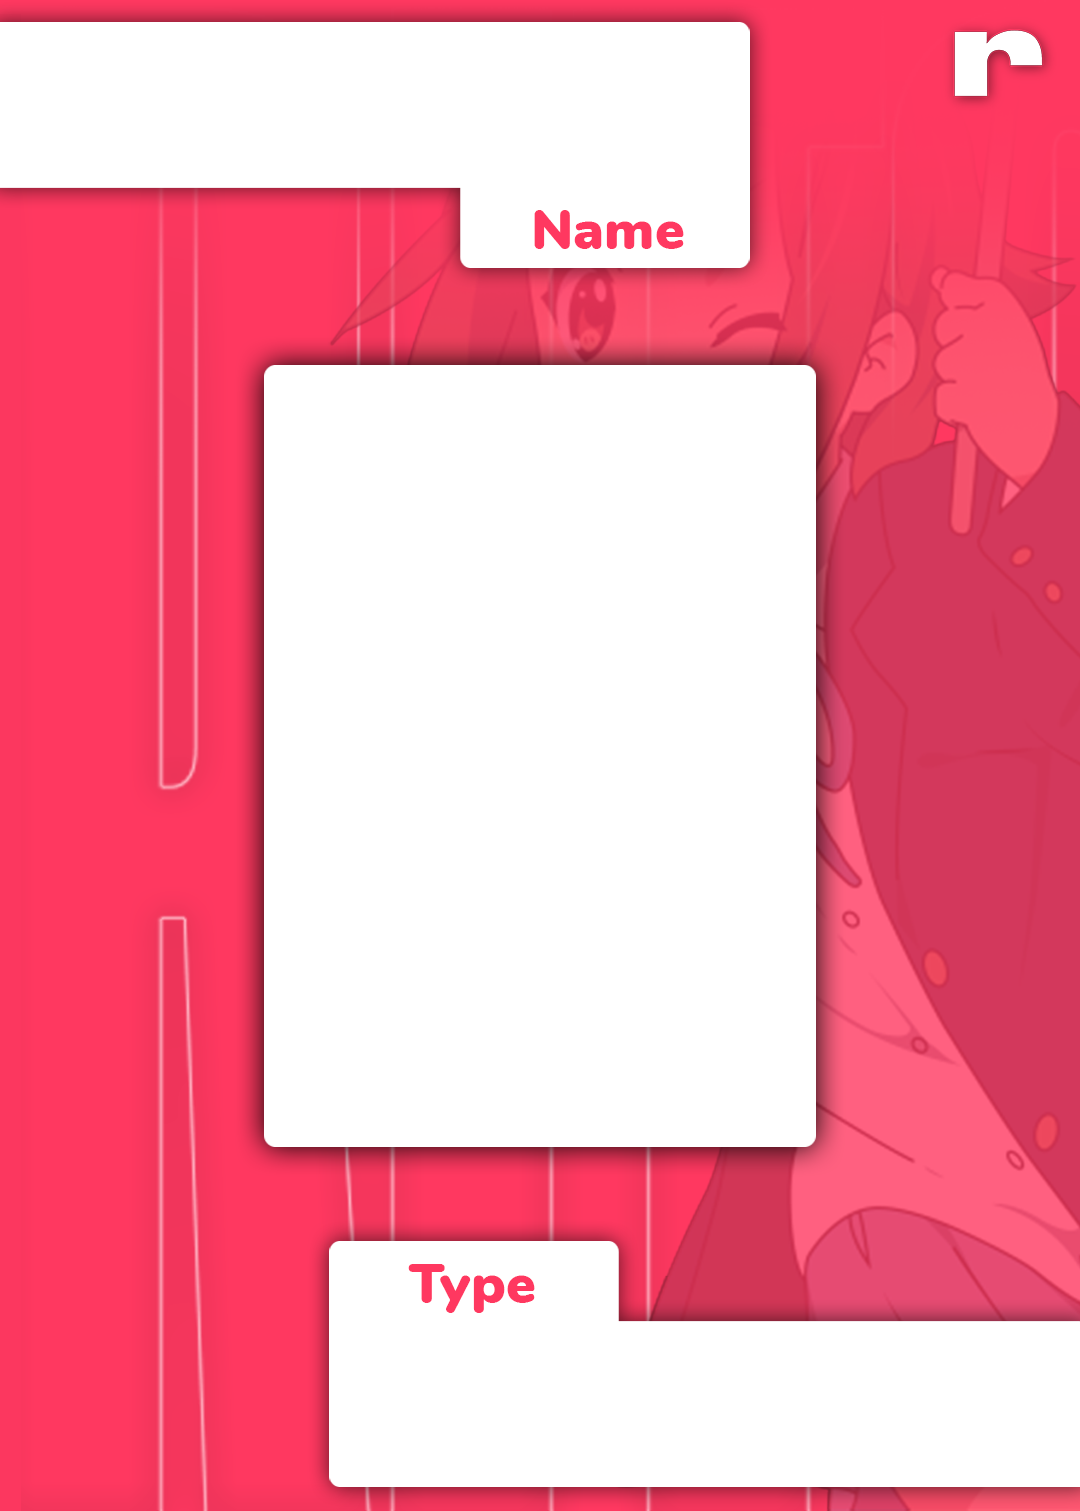
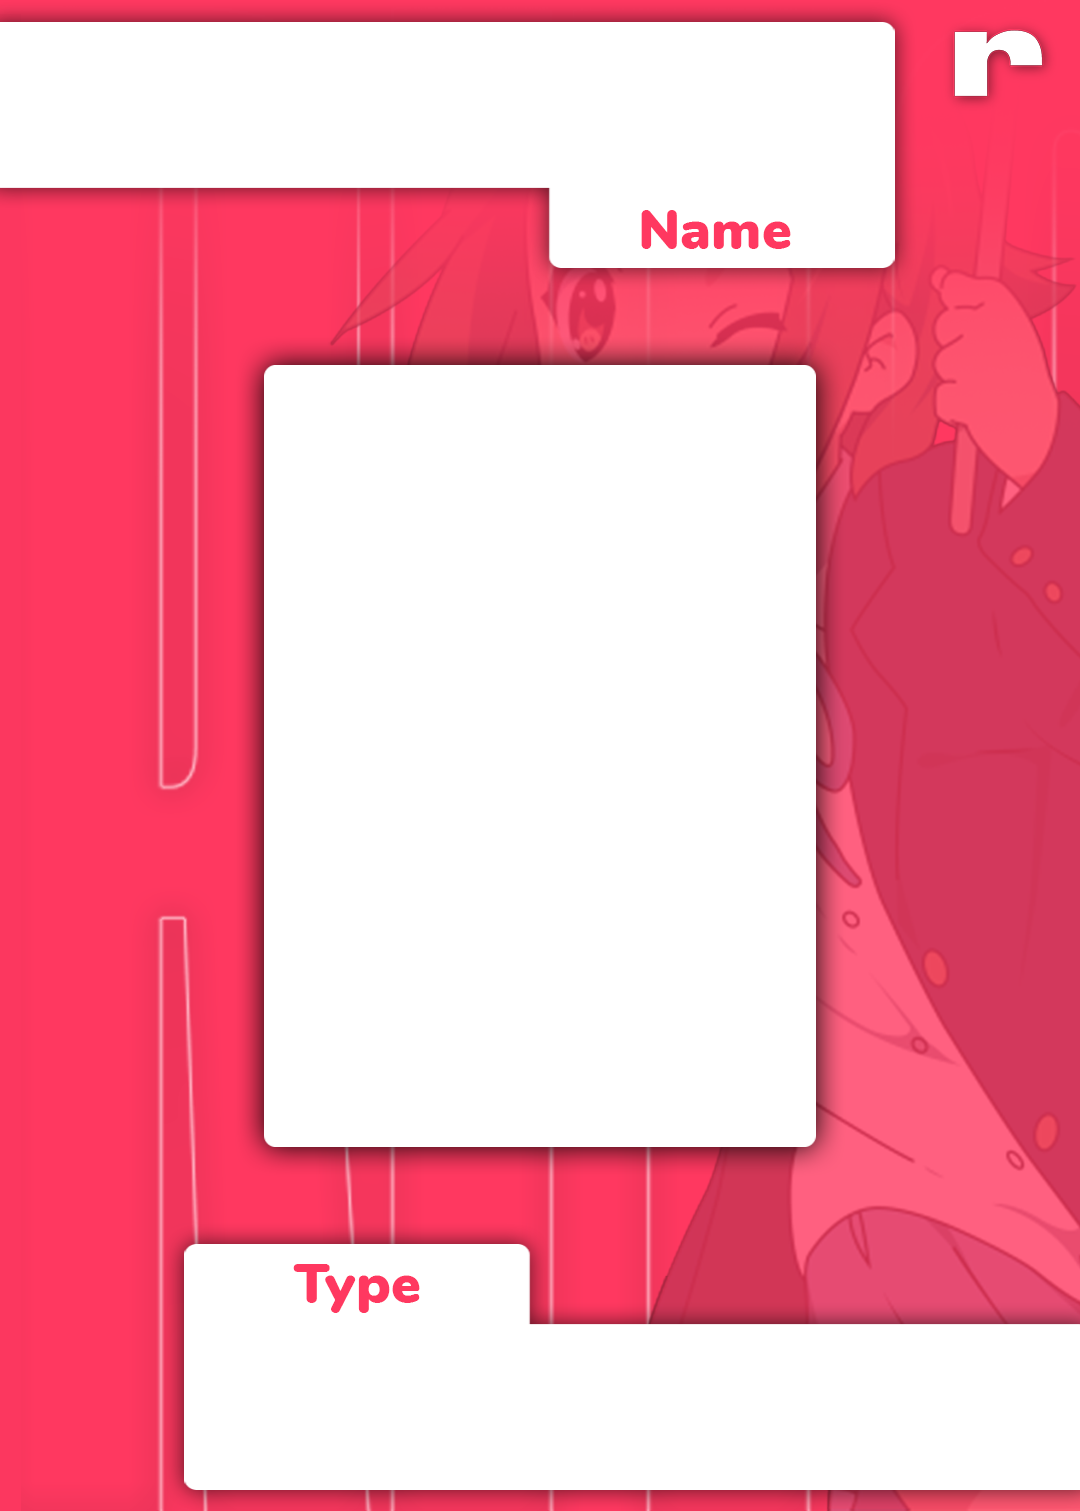
New fixed answswerCard.

Changed region(s): [[0.3972, 0.0, 0.8556, 0.1866], [0.1528, 0.8087, 0.6111, 0.9954]]

diff --git a/src/util/CanvasGen.ts b/src/util/CanvasGen.ts
@@ -46,12 +46,12 @@ export default {
       // NAME
       ctx.font = `40pt "Nunito" bold`;
       ctx.fillStyle = "#ff3860";
-      ctx.fillText(name, 30, 125, 665);
+      ctx.fillText(name, 30, 125, 810);
 
       // TYPE
       ctx.font = `40pt "Nunito" bold`;
       ctx.fillStyle = "#ff3860";
-      ctx.fillText(type, 620, 1420);
+      ctx.fillText(type, 530, 1420);
 
       // COVER
       const COVER_IMAGE = new Canvas.Image();
